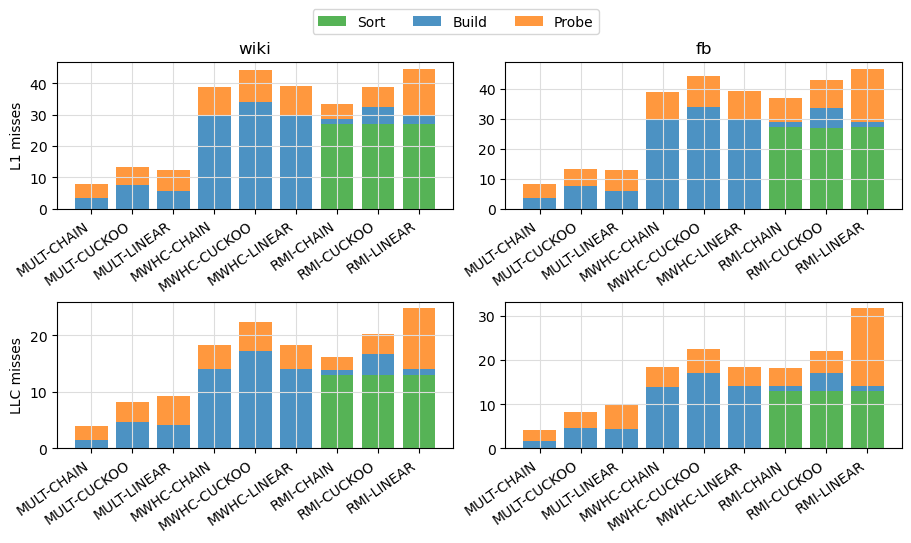
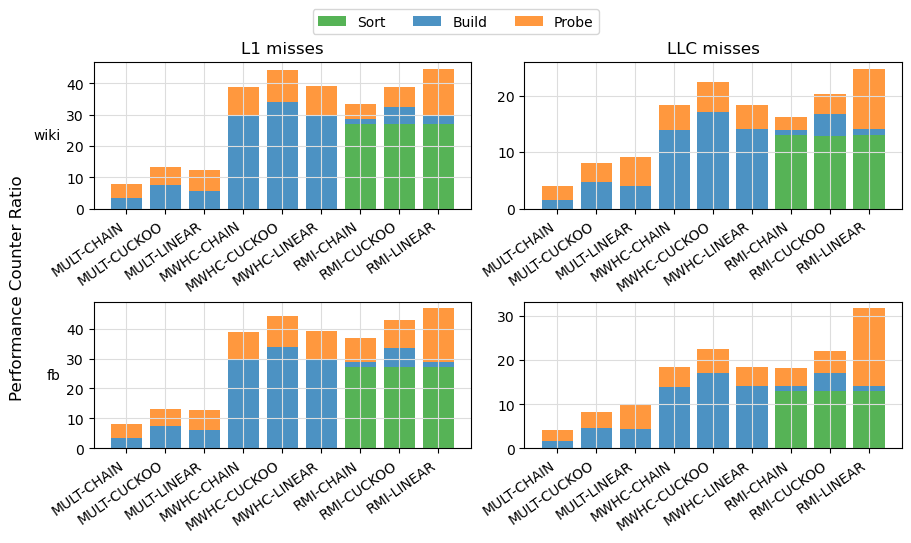
Change fig layout

diff --git a/scripts/print_figures.py b/scripts/print_figures.py
@@ -661,7 +661,7 @@ def perf_join(df):
         for name_ds in datasets:
             group_ds = df_join[df_join['dataset']==name_ds]
             
-            ax = axes[:,i]
+            ax = axes[i,:]
             i += 1
             
             # 10x25
@@ -713,8 +713,8 @@ def perf_join(df):
     for name_ds in datasets:
         group_ds = df_join[df_join['dataset']==name_ds]
         df_merge = groupby_helper(group_ds, ['dataset','label'], [f'{c}-sort' for c in counters] + [f'{c}-build' for c in counters] + [f'{c}-probe' for c in counters])
-        ax = axes[:,i]
-        ax[0].set_title(name_ds)
+        ax = axes[i]
+        ax[0].set_ylabel(name_ds, rotation=0, ha='right', va="center")
         i += 1
         for c_i, c in enumerate(counters):
             # Create the upper part of the bar
@@ -724,7 +724,7 @@ def perf_join(df):
             h2 = ax[c_i].bar(range(len(df_merge['label'])), df_merge[c+'-probe'], color='tab:orange', alpha=0.8, bottom=df_merge[c+'-sort']+df_merge[c+'-build'], label='Probe')
 
             if i == 1:
-                ax[c_i].set_ylabel(counters_label[c_i])
+                ax[c_i].set_title(counters_label[c_i])
                 handles.append(h3)
                 handles.append(h1)
                 handles.append(h2)
@@ -736,8 +736,9 @@ def perf_join(df):
     lgd = fig.legend(handles=handles, loc='upper center', labels=legend_labels, ncol=len(legend_labels), bbox_to_anchor=(0.5, 1.07))
 
     #plt.show()
+    laby = fig.supylabel('Performance Counter Ratio')
     name = prefix + '_' + 'size-avg.png'
-    fig.savefig(name, bbox_extra_artists=(lgd,), bbox_inches='tight')    
+    fig.savefig(name, bbox_extra_artists=(lgd,laby,), bbox_inches='tight')    
 
 
 # -------- point+range -------- # 
@@ -858,7 +859,7 @@ def join(df):
     i = 0
     for name_ds in datasets:
         group_ds = df[df['dataset_name']==name_ds]
-        ax = axes[:,i]
+        ax = axes[i]
         i += 1
         
         # 10x25
